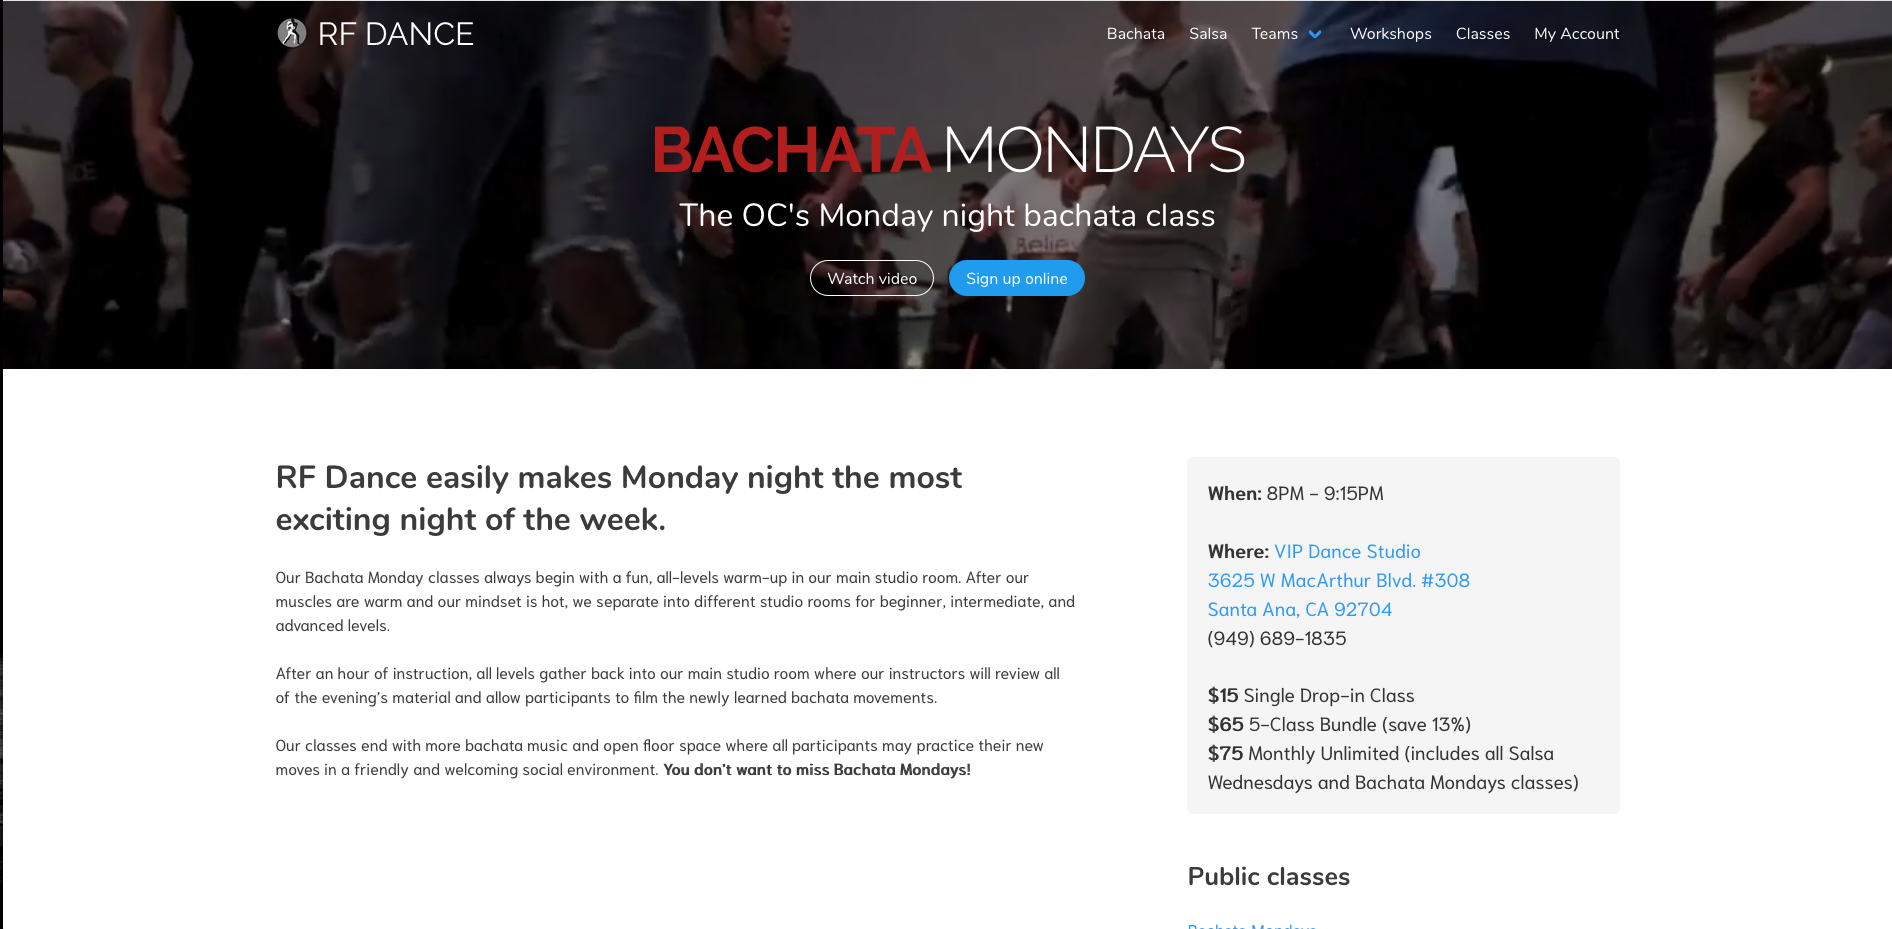
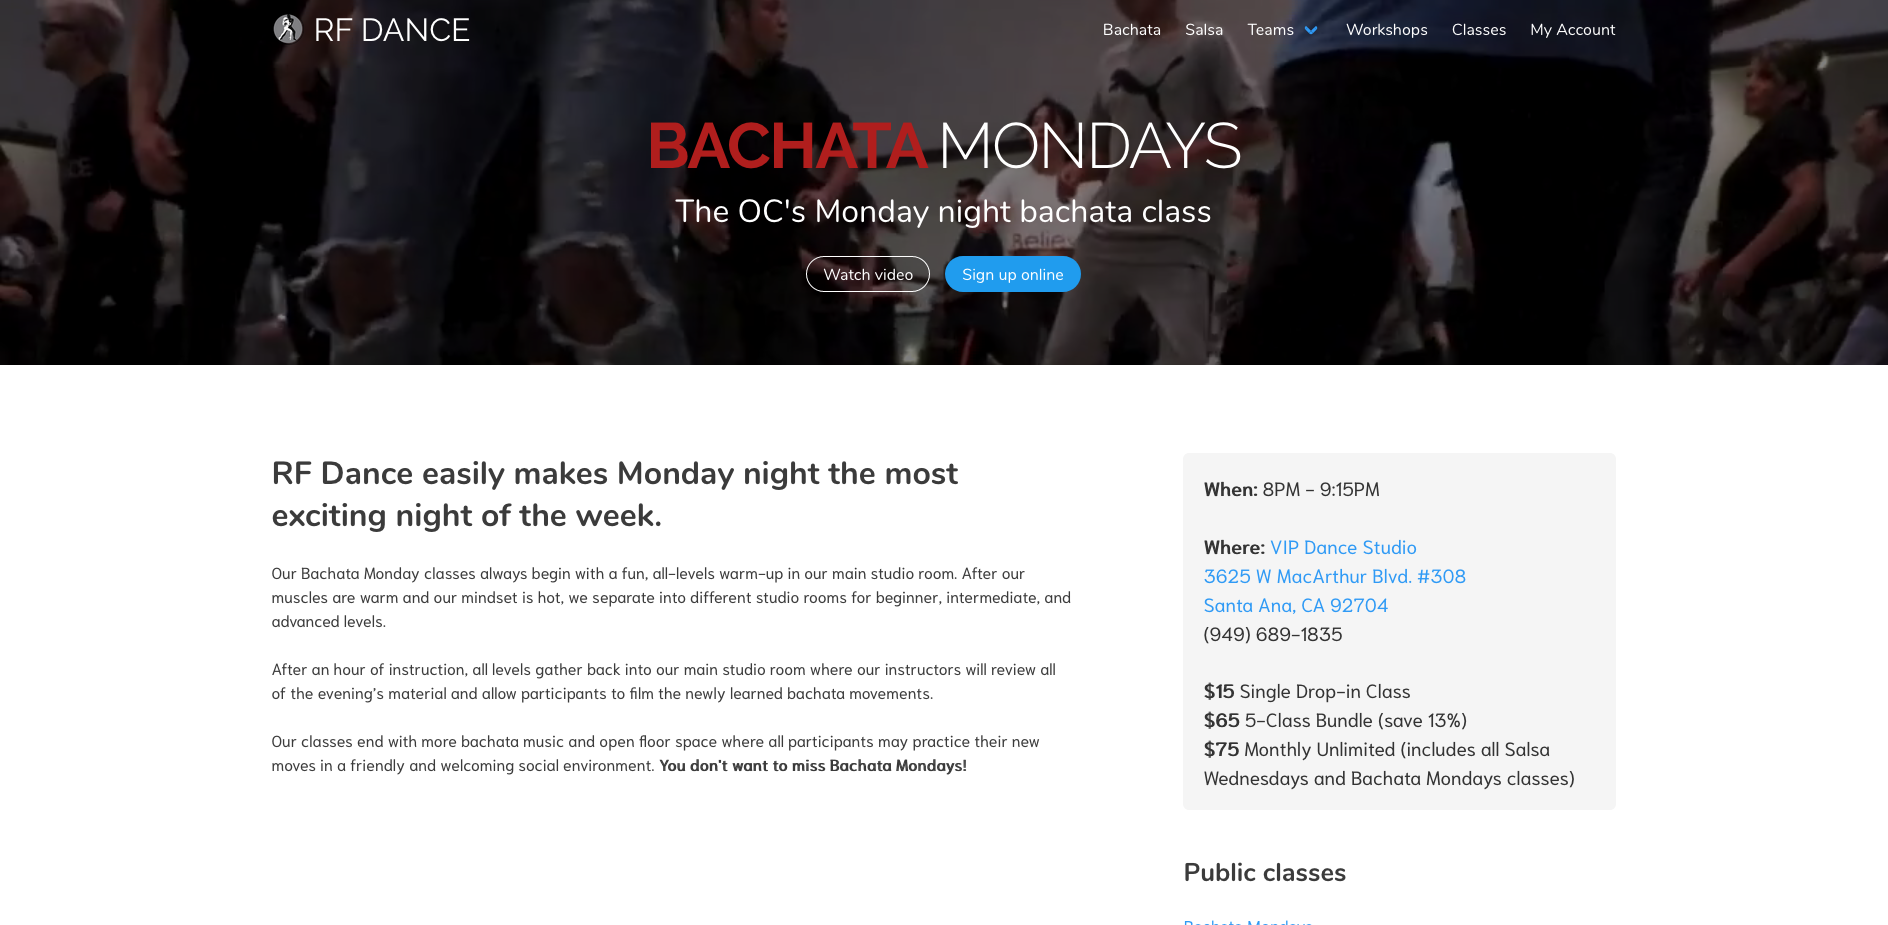
Adds lazyload, rfdance

diff --git a/src/pages/index.js b/src/pages/index.js
@@ -5,6 +5,7 @@ import { Link, graphql } from 'gatsby'
 
 import 'bulma/bulma.sass'
 import '@fortawesome/fontawesome-free/js/all.js'
+import LazyLoad from 'react-lazyload'
 
 const Skill = props => (
   <div className="column is-four">
@@ -65,7 +66,9 @@ const IndexPage = ({ data }) => (
     </section>
     <section id="projects" className="projects">
       <div className="container">
-        <Tabs />
+        <LazyLoad>
+          <Tabs />
+        </LazyLoad>
       </div>
     </section>
     <section className="transition">

diff --git a/src/components/tabs.js b/src/components/tabs.js
@@ -4,7 +4,6 @@ import { graphql } from 'gatsby'
 import '../scss/tabs.scss'
 import Modal from '../components/modal'
 
-
 class Tab extends React.Component {
   render() {
     return (
@@ -77,10 +76,6 @@ class Tabs extends React.Component {
       ...prevState,
       modalImg: '',
     }))
-  }
-
-  componentDidUpdate() {
-    console.log('state', this.state.modalImg)
   }
 
   render() {
